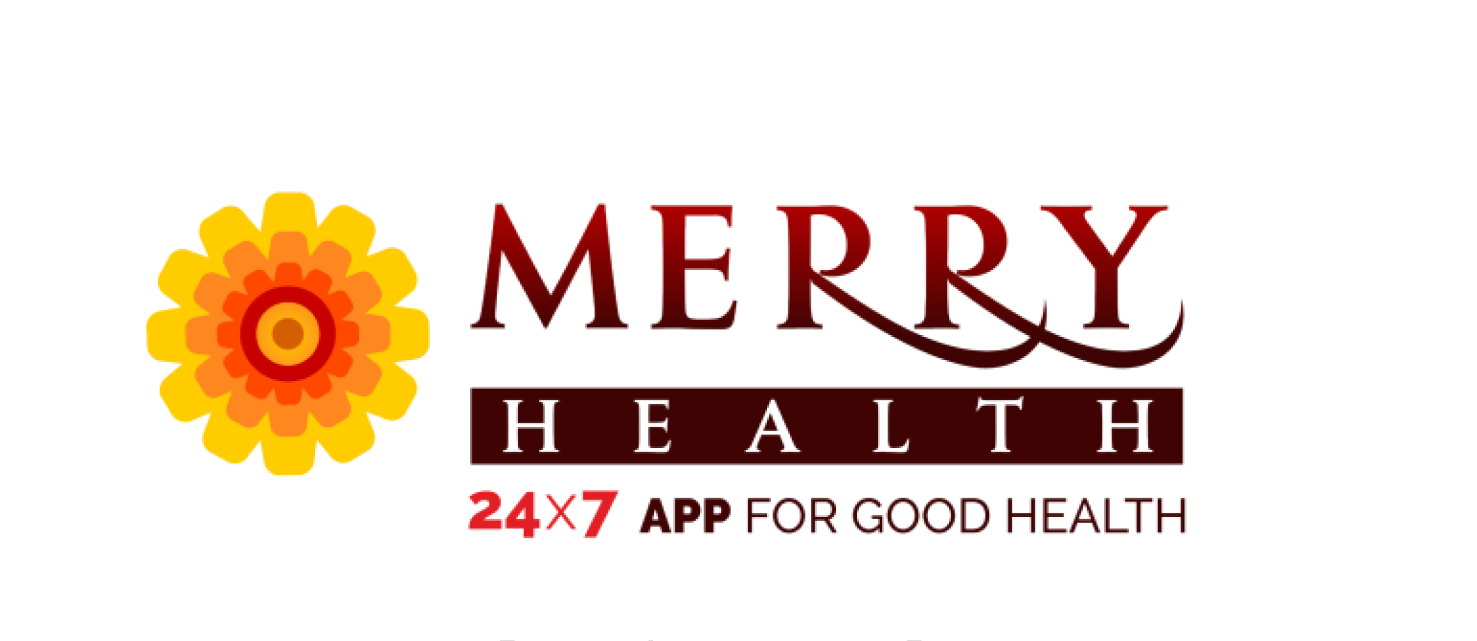
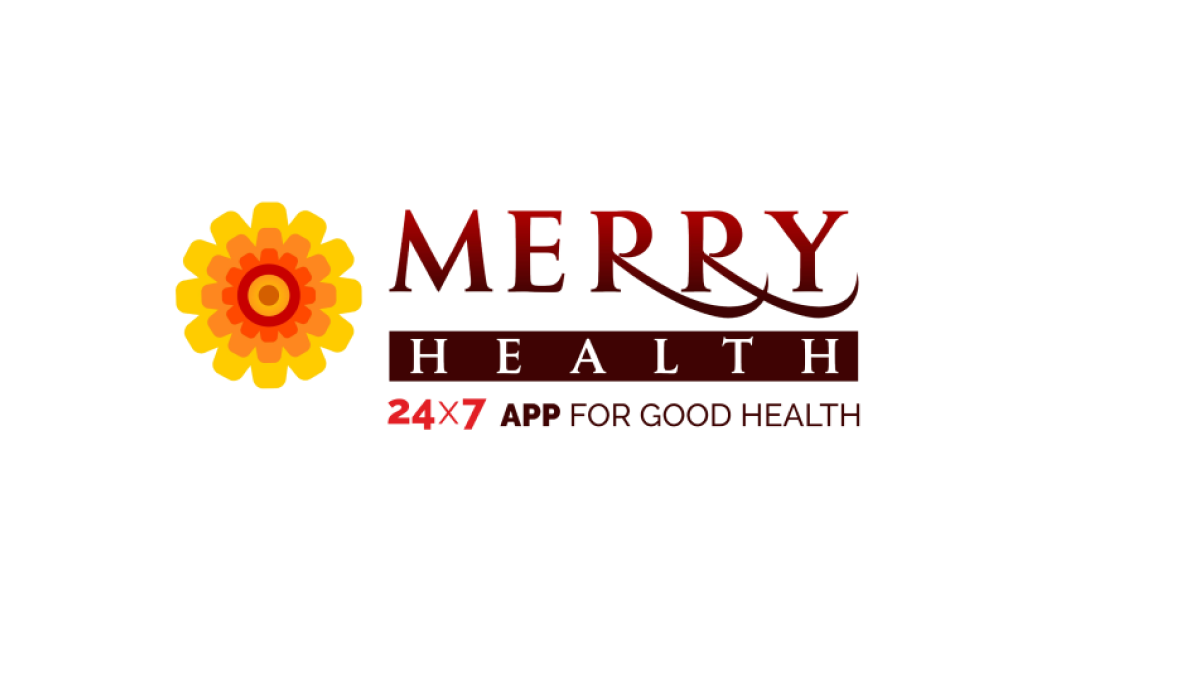
Changes

Changed region(s): [[0.0934, 0.2808, 0.8091, 0.8424], [0.3112, 0.9984, 0.3734, 1.0], [0.5913, 0.9984, 0.6224, 1.0]]

diff --git a/src/components/Work.tsx b/src/components/Work.tsx
@@ -3,7 +3,7 @@ import ProjectCard from './ProjectCard';
 import { Input } from '@/components/ui/input';
 import { Search } from 'lucide-react';
 import streeCover from '@/assets/stree-cover.png';
-import merryHealthCover from '@/assets/merry-health-logo.png';
+import merryHealthCover from '@/assets/merry-health-cover.png';
 import brynqCover from '@/assets/brynq-cover.png';
 import foodWasteCover from '@/assets/food-waste-cover.png';
 type ProjectTag = 'UI' | 'UX' | 'Research';
